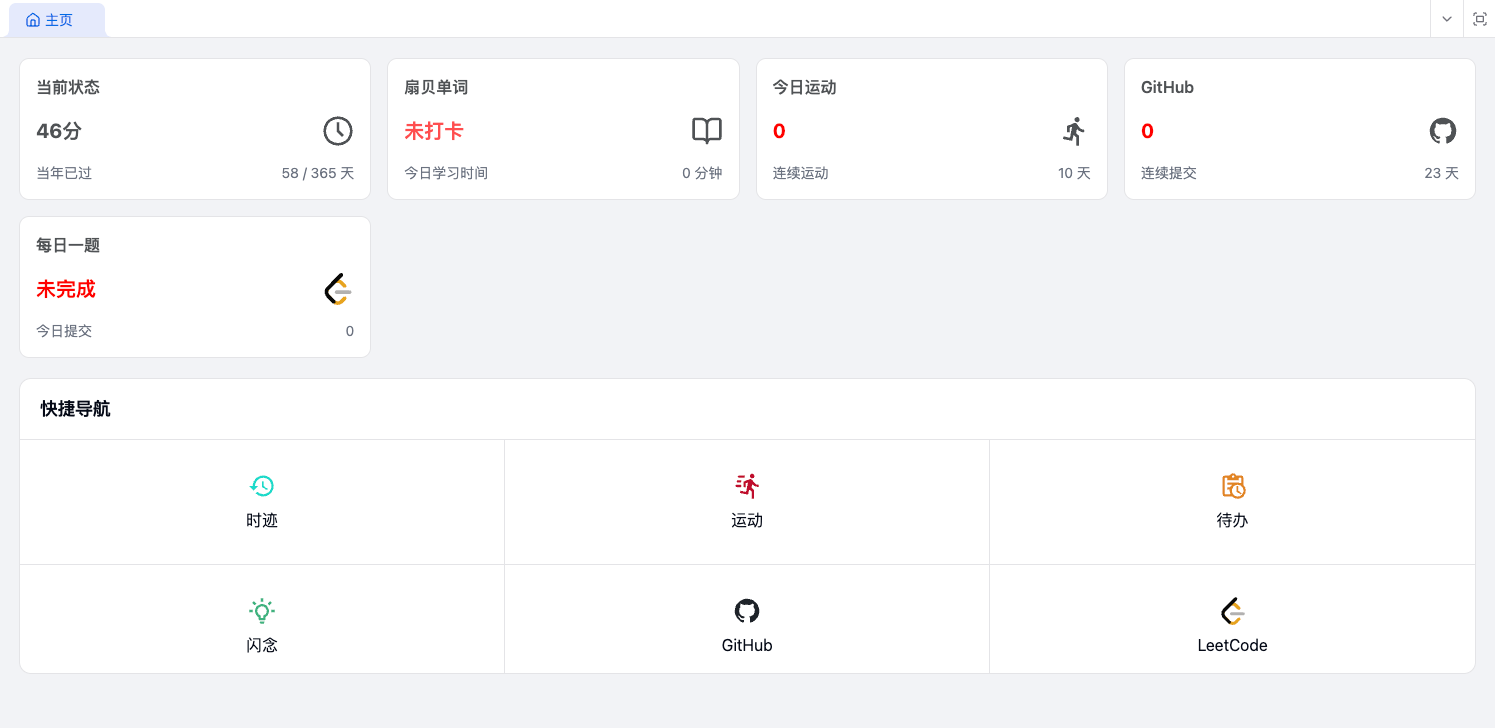
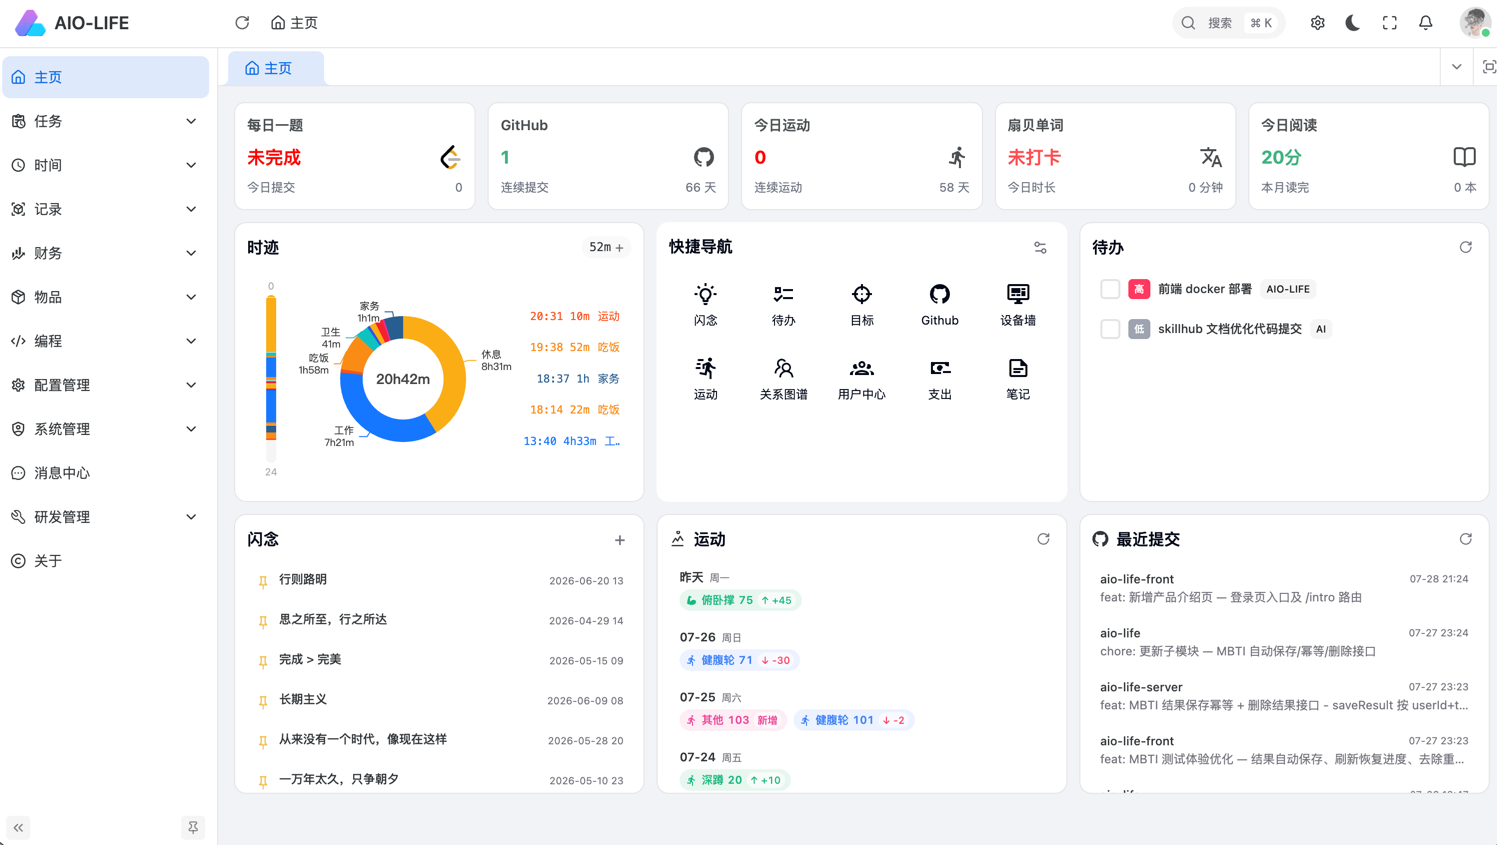
feat: 演出记录改用 fileId 上传封面，接入 RESTful 接口
- 封面地址输入框替换为 ImageUpload（统一 /file/upload），卡片用 AuthImage 展示
- 接口切换为 RESTful：queryPerformances/createPerformance/updatePerformance/deletePerformance
- 新增按钮改为右下角 GlobalFloatBtn，编辑弹窗增加删除（Popconfirm）

diff --git a/apps/web-antd/src/views/my-hub/performance/form-drawer-demo.vue b/apps/web-antd/src/views/my-hub/performance/form-drawer-demo.vue
@@ -1,11 +1,17 @@
 <script lang="ts" setup>
 import { onMounted, ref, toRaw, watch } from 'vue';
 
-import { Button } from 'ant-design-vue';
+import { Button, message, Popconfirm } from 'ant-design-vue';
 
 import { useVbenForm } from '#/adapter/form';
 import { getByDictType } from '#/api/core/common';
-import { insertOrUpdate } from '#/api/core/performance';
+import {
+  createPerformance,
+  deletePerformance,
+  updatePerformance,
+  uploadPerformanceAttachment,
+} from '#/api/core/performance';
+import ImageUpload from '#/components/ImageUpload.vue';
 
 defineOptions({
   name: 'FormDrawerDemo',
@@ -103,18 +109,17 @@ const [Form, formApi] = useVbenForm({
       fieldName: 'performanceDate',
       label: '活动日期',
     },
-    {
-      component: 'Input',
-      componentProps: {
-        placeholder: '请输入',
-      },
-      fieldName: 'imageUrl',
-      label: '封面地址',
-    },
   ],
   showDefaultActions: false,
   submitOnEnter: true,
 });
+
+const fileId = ref<null | string>(null);
+
+const syncFileId = (values: any) => {
+  const files = values?.files || [];
+  fileId.value = files.length > 0 ? String(files[0].id) : null;
+};
 
 watch(
   () => props.values,
@@ -122,6 +127,7 @@ watch(
     if (newValues) {
       formApi.setValues(newValues);
     }
+    syncFileId(newValues);
   },
   { immediate: true },
 );
@@ -130,13 +136,22 @@ onMounted(async () => {
   await loadDictOptions();
   if (props.values) {
     formApi.setValues(props.values);
+    syncFileId(props.values);
   }
 });
 
 const handleSubmit = async () => {
   try {
     const formData = await formApi.submitForm();
-    await insertOrUpdate(toRaw(formData));
+    const payload = {
+      ...toRaw(formData),
+      fileIds: fileId.value ? [fileId.value] : [],
+    };
+    if (props.values?.id) {
+      await updatePerformance({ ...payload, id: props.values.id });
+    } else {
+      await createPerformance(payload);
+    }
     tableReload();
     handleClose();
   } catch (error) {
@@ -148,13 +163,46 @@ const handleCancel = () => {
   formApi.resetForm();
   handleClose();
 };
+
+const handleDelete = async () => {
+  if (!props.values?.id) return;
+  try {
+    await deletePerformance(props.values.id);
+    message.success('删除成功');
+    tableReload();
+    handleClose();
+  } catch (error) {
+    console.error('删除失败:', error);
+  }
+};
 </script>
 <template>
   <div class="p-4">
     <Form />
-    <div class="mt-4 flex justify-end gap-2 border-t border-border pt-4">
-      <Button @click="handleCancel">取消</Button>
-      <Button type="primary" @click="handleSubmit">保存</Button>
+    <div class="mt-2">
+      <div class="mb-1 text-sm">封面图片</div>
+      <ImageUpload
+        v-model:file-id="fileId"
+        :upload-fn="uploadPerformanceAttachment"
+      />
+    </div>
+    <div class="mt-4 flex justify-between gap-2 border-t border-border pt-4">
+      <div>
+        <Popconfirm
+          v-if="props.values?.id"
+          title="确定要删除吗？"
+          ok-text="删除"
+          cancel-text="取消"
+          placement="topLeft"
+          @confirm="handleDelete"
+        >
+          <Button danger>删除</Button>
+        </Popconfirm>
+      </div>
+      <div class="flex gap-2">
+        <Button @click="handleCancel">取消</Button>
+        <Button type="primary" @click="handleSubmit">保存</Button>
+      </div>
     </div>
   </div>
 </template>

diff --git a/apps/web-antd/src/views/my-hub/performance/index.vue b/apps/web-antd/src/views/my-hub/performance/index.vue
@@ -4,13 +4,14 @@ import { onMounted, ref } from 'vue';
 import {
   CalendarOutlined,
   EnvironmentOutlined,
-  PlusOutlined,
   UserOutlined,
 } from '@ant-design/icons-vue';
-import { Button, Empty, message, Modal, Spin } from 'ant-design-vue';
+import { Empty, message, Modal, Spin } from 'ant-design-vue';
 
 import { getByDictType } from '#/api/core/common';
-import { query } from '#/api/core/performance';
+import { queryPerformances } from '#/api/core/performance';
+import AuthImage from '#/components/AuthImage.vue';
+import GlobalFloatBtn from '#/components/global-float-btn/index.vue';
 
 import FormDrawerDemo from './form-drawer-demo.vue';
 
@@ -22,8 +23,8 @@ interface RowType {
   performanceDate: string;
   venue: string;
   city: string;
-  imageUrl: string;
   ticketPrice: string;
+  files?: Array<{ id: string }>;
 }
 
 const loading = ref(false);
@@ -50,7 +51,7 @@ const getPerformanceTypeLabel = (value: string) => {
 const fetchData = async () => {
   loading.value = true;
   try {
-    const res = await query({
+    const res = await queryPerformances({
       page: 1,
       pageSize: 100,
     });
@@ -81,32 +82,12 @@ const closeFormModal = () => {
 const tableReload = () => {
   fetchData();
 };
-
-const getImageUrl = (coverUrl: string) => {
-  if (!coverUrl) return '';
-  if (coverUrl.includes('bilibili.com') || coverUrl.includes('hdslb.com')) {
-    return `https://images.weserv.nl/?url=${encodeURIComponent(coverUrl)}&w=300&h=200&fit=cover`;
-  }
-  return coverUrl;
-};
-
-const handleImageError = (event: Event) => {
-  const target = event.target as HTMLImageElement;
-  target.style.display = 'none';
-};
 </script>
 
 <template>
   <div class="vp-raw min-h-full w-full bg-background/50 p-0 sm:p-4">
     <Spin :spinning="loading">
       <div class="px-2 py-4 sm:px-0">
-        <div class="mb-4 flex justify-end">
-          <Button type="primary" @click="openFormDrawer()">
-            <template #icon><PlusOutlined /></template>
-            <span class="hidden sm:inline">新增活动</span>
-          </Button>
-        </div>
-
         <div
           v-if="dataSource.length === 0 && !loading"
           class="py-12 text-center"
@@ -125,12 +106,11 @@ const handleImageError = (event: Event) => {
             @click="openFormDrawer(item)"
           >
             <div class="relative aspect-[16/10] overflow-hidden">
-              <img
-                v-if="item.imageUrl"
-                :src="getImageUrl(item.imageUrl)"
+              <AuthImage
+                v-if="item.files && item.files.length > 0"
+                :file-id="item.files[0]?.id"
                 :alt="item.performanceName"
                 class="h-full w-full object-cover transition-transform duration-500 group-hover:scale-110"
-                @error="handleImageError"
               />
               <div
                 v-else
@@ -196,6 +176,8 @@ const handleImageError = (event: Event) => {
         </div>
       </div>
     </Spin>
+
+    <GlobalFloatBtn @click="openFormDrawer()" />
 
     <Modal
       v-model:open="modalVisible"

diff --git a/apps/web-antd/src/api/core/performance.ts b/apps/web-antd/src/api/core/performance.ts
@@ -1,22 +1,55 @@
+import type { FileVO } from './common';
+
+import { FILE_BIZ_TYPE, uploadFile } from './common';
 import { requestClient } from '#/api/request';
 
+export interface PerformanceEntity {
+  id?: string;
+  performanceName?: string;
+  performer?: string;
+  performanceType?: string;
+  performanceDate?: string;
+  city?: string;
+  venue?: string;
+  ticketPrice?: string;
+  fileIds?: string[];
+  files?: FileVO[];
+}
+
 /**
- * 查询
+ * 分页查询
  */
-export async function query(data: any) {
-  return await requestClient.post('/performance/query', data);
+export async function queryPerformances(params: {
+  page: number;
+  pageSize: number;
+}) {
+  return await requestClient.get('/performance', { params });
 }
 
 /**
  * 新增
  */
-export async function insertOrUpdate(data: any) {
-  return await requestClient.post('/performance/insertOrUpdate', data);
+export async function createPerformance(data: PerformanceEntity) {
+  return await requestClient.post('/performance', data);
+}
+
+/**
+ * 更新
+ */
+export async function updatePerformance(data: PerformanceEntity) {
+  return await requestClient.put('/performance', data);
 }
 
 /**
  * 删除
  */
-export async function deleteData(data: any) {
-  return await requestClient.post('/performance/delete', data);
+export async function deletePerformance(id: string) {
+  return await requestClient.delete(`/performance/${id}`);
+}
+
+/**
+ * 上传演出封面/票根图片
+ */
+export async function uploadPerformanceAttachment(file: File) {
+  return await uploadFile(file, FILE_BIZ_TYPE.PERFORMANCE);
 }

diff --git a/apps/web-antd/src/api/core/common.ts b/apps/web-antd/src/api/core/common.ts
@@ -51,6 +51,7 @@ export const FILE_BIZ_TYPE = {
   FEEDBACK_COMMENT: 'feedback_comment',
   HONOR_RECORD: 'honor_record',
   MOVIE: 'movie',
+  PERFORMANCE: 'performance',
   READ_RECORD: 'read',
   WARDROBE_ITEM: 'wardrobe_item',
 } as const;
